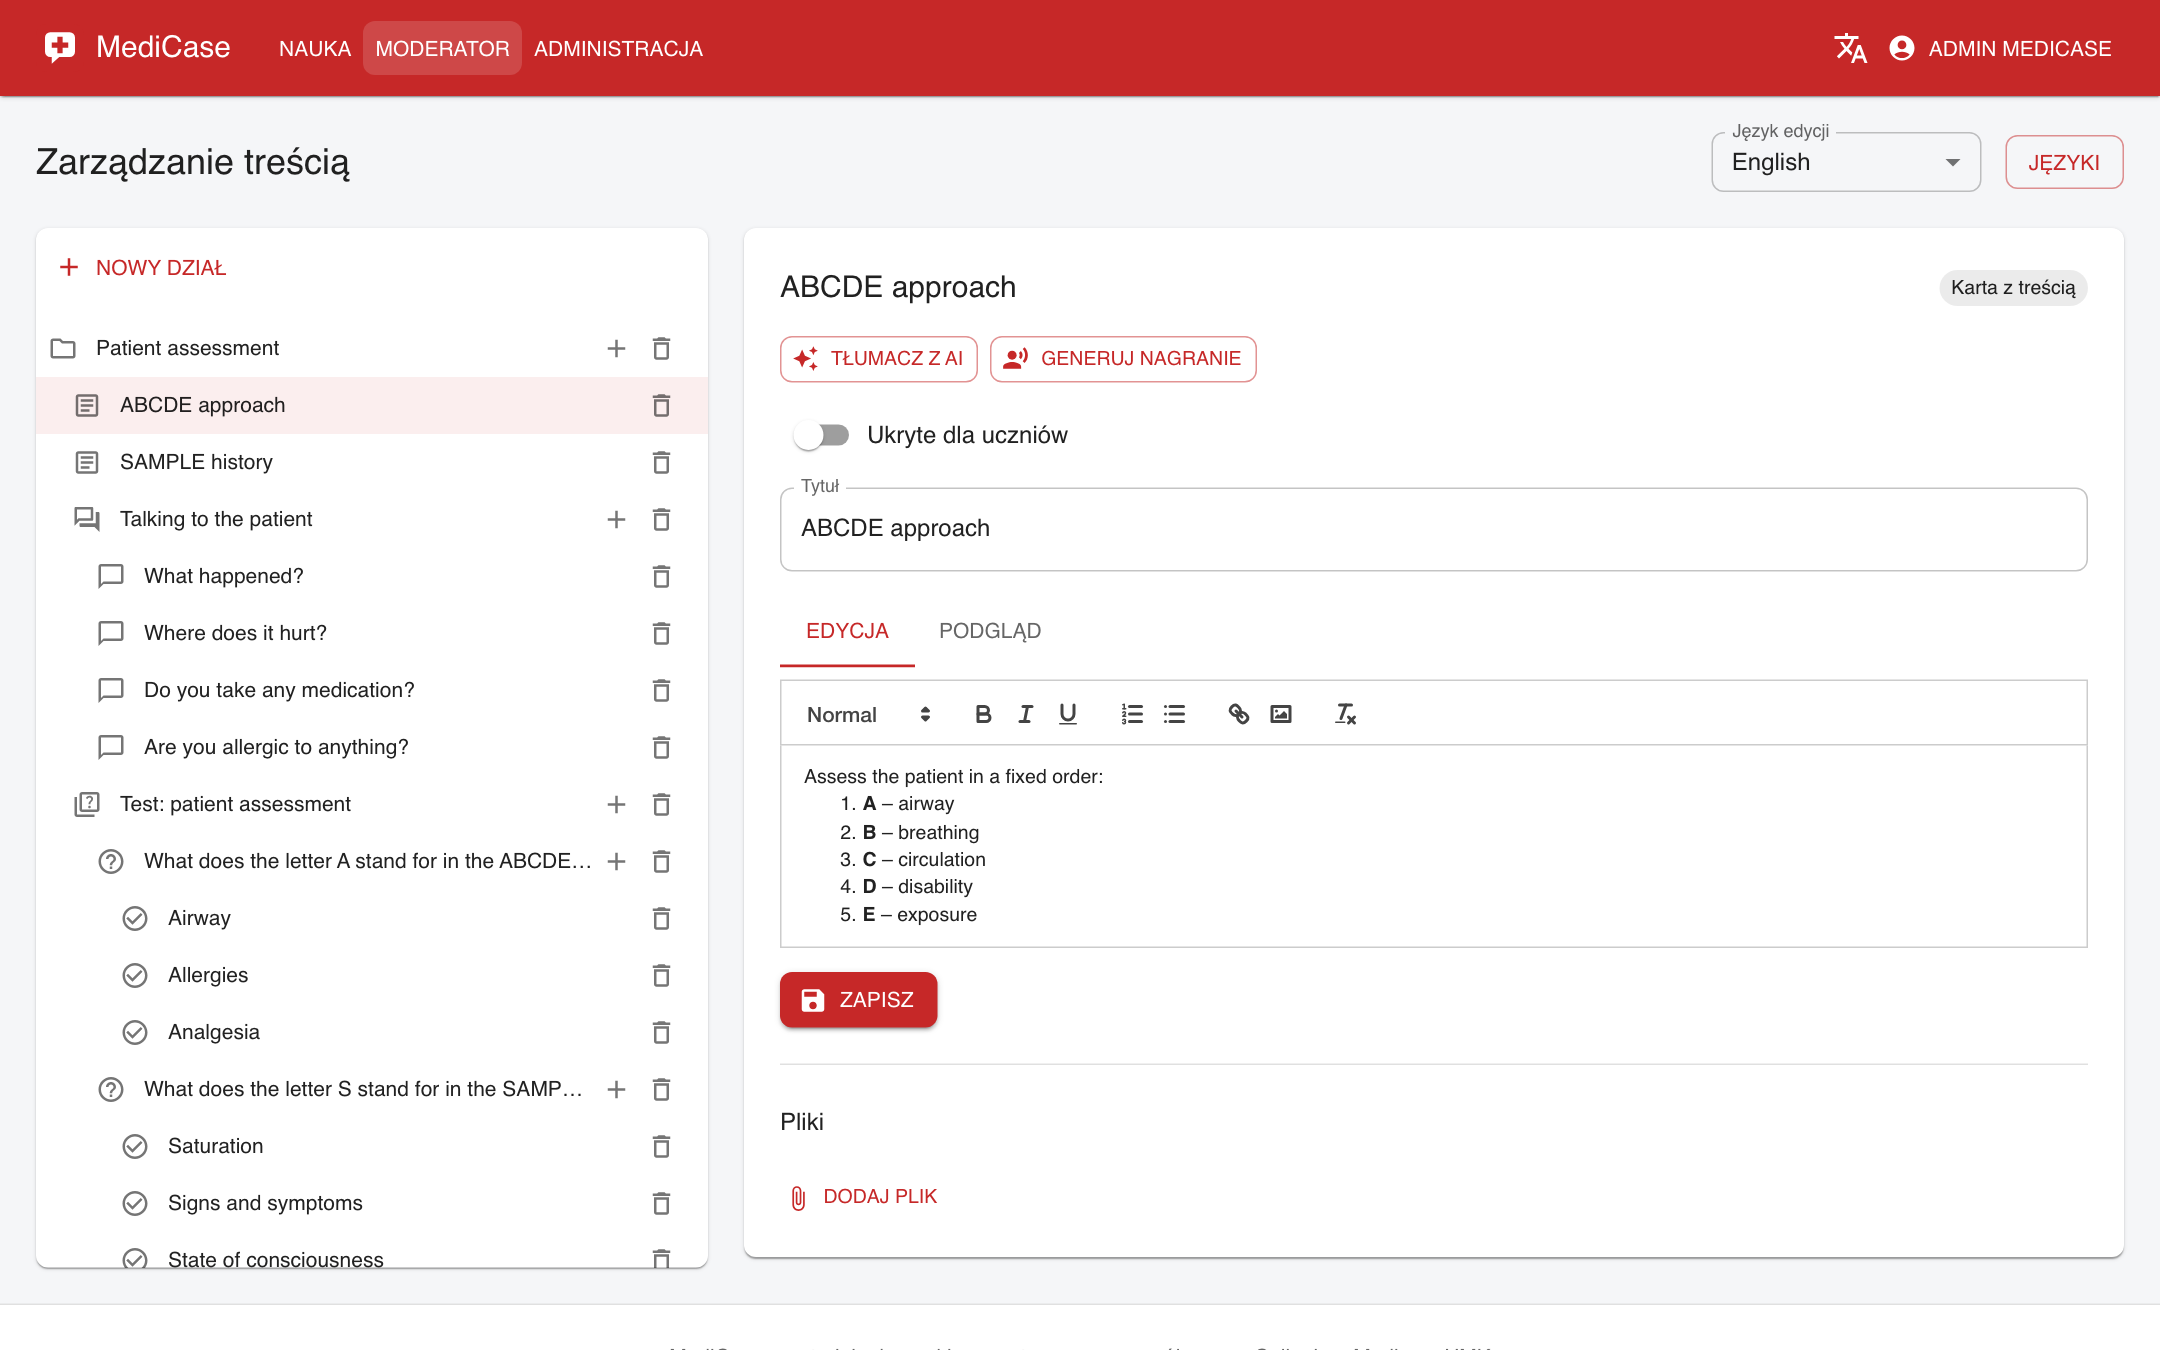
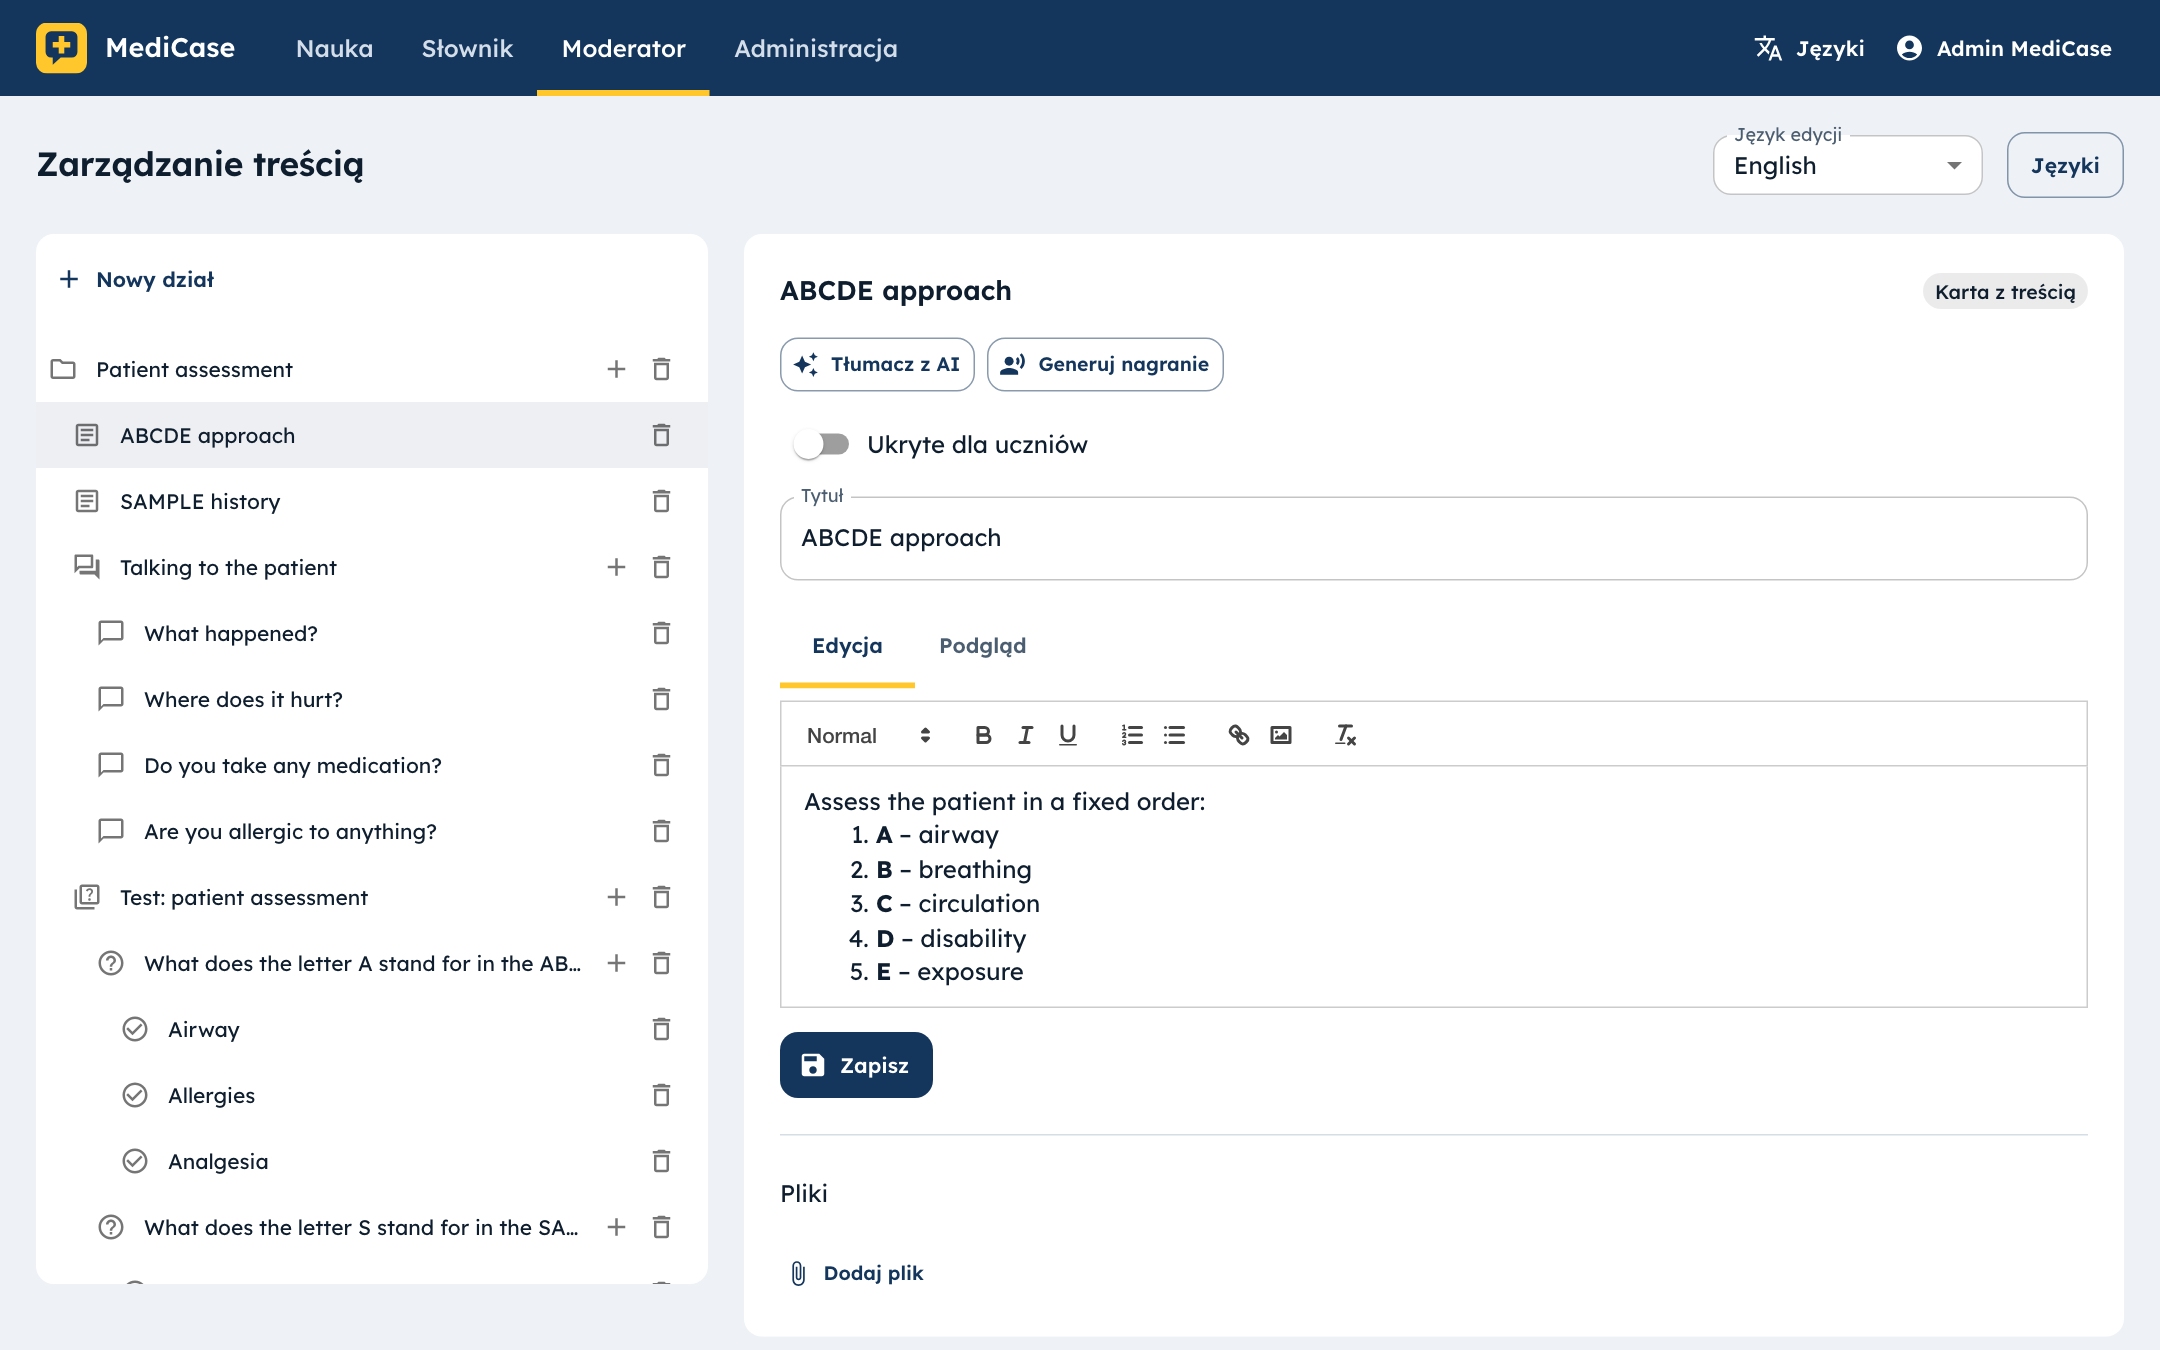
Update the description and screenshots after the redesign

diff --git a/README.md b/README.md
@@ -17,19 +17,27 @@ show the sample content and fictional users.
 ### Learning
 
 The learner chooses two languages: the one they learn and their own. Content is shown in the language they learn, and
-the translation can be turned on for every card. Topics are organized in a tree with search.
+the translation can be turned on when it is needed. Topics are grouped into sections and can be searched.
 
-![Content card in English with the Polish translation turned on](docs/screenshots/learning-card.png)
+![Topics grouped into sections](docs/screenshots/topics.png)
 
-**Patient interview** – ready questions to ask a patient, with a recording of the pronunciation and the translation:
+**Patient interview** – one question at a time, with a recording of the pronunciation and the translation on demand:
 
-![List of patient interview questions with recordings](docs/screenshots/patient-interview.png)
+![Patient interview question with the translation and the listen button](docs/screenshots/interview.png)
+
+**Content cards** – knowledge in the learned language, with the translation below:
+
+![Content card in English with the Polish translation turned on](docs/screenshots/card.png)
 
 **Tests** – every answer is checked right away, and the test ends with a score and can be repeated:
 
 ![Test with a correct and a wrong answer and the final score](docs/screenshots/test.png)
 
-Sections can also have a **glossary** with short definitions. Everything works on a phone as well:
+**Glossary** – short definitions from all sections in one place, with search:
+
+![Glossary with definitions](docs/screenshots/glossary.png)
+
+The application is designed for phones first, with large buttons and a bottom menu:
 
 <img src="docs/screenshots/mobile.png" alt="Patient interview on a phone" width="260">
 
